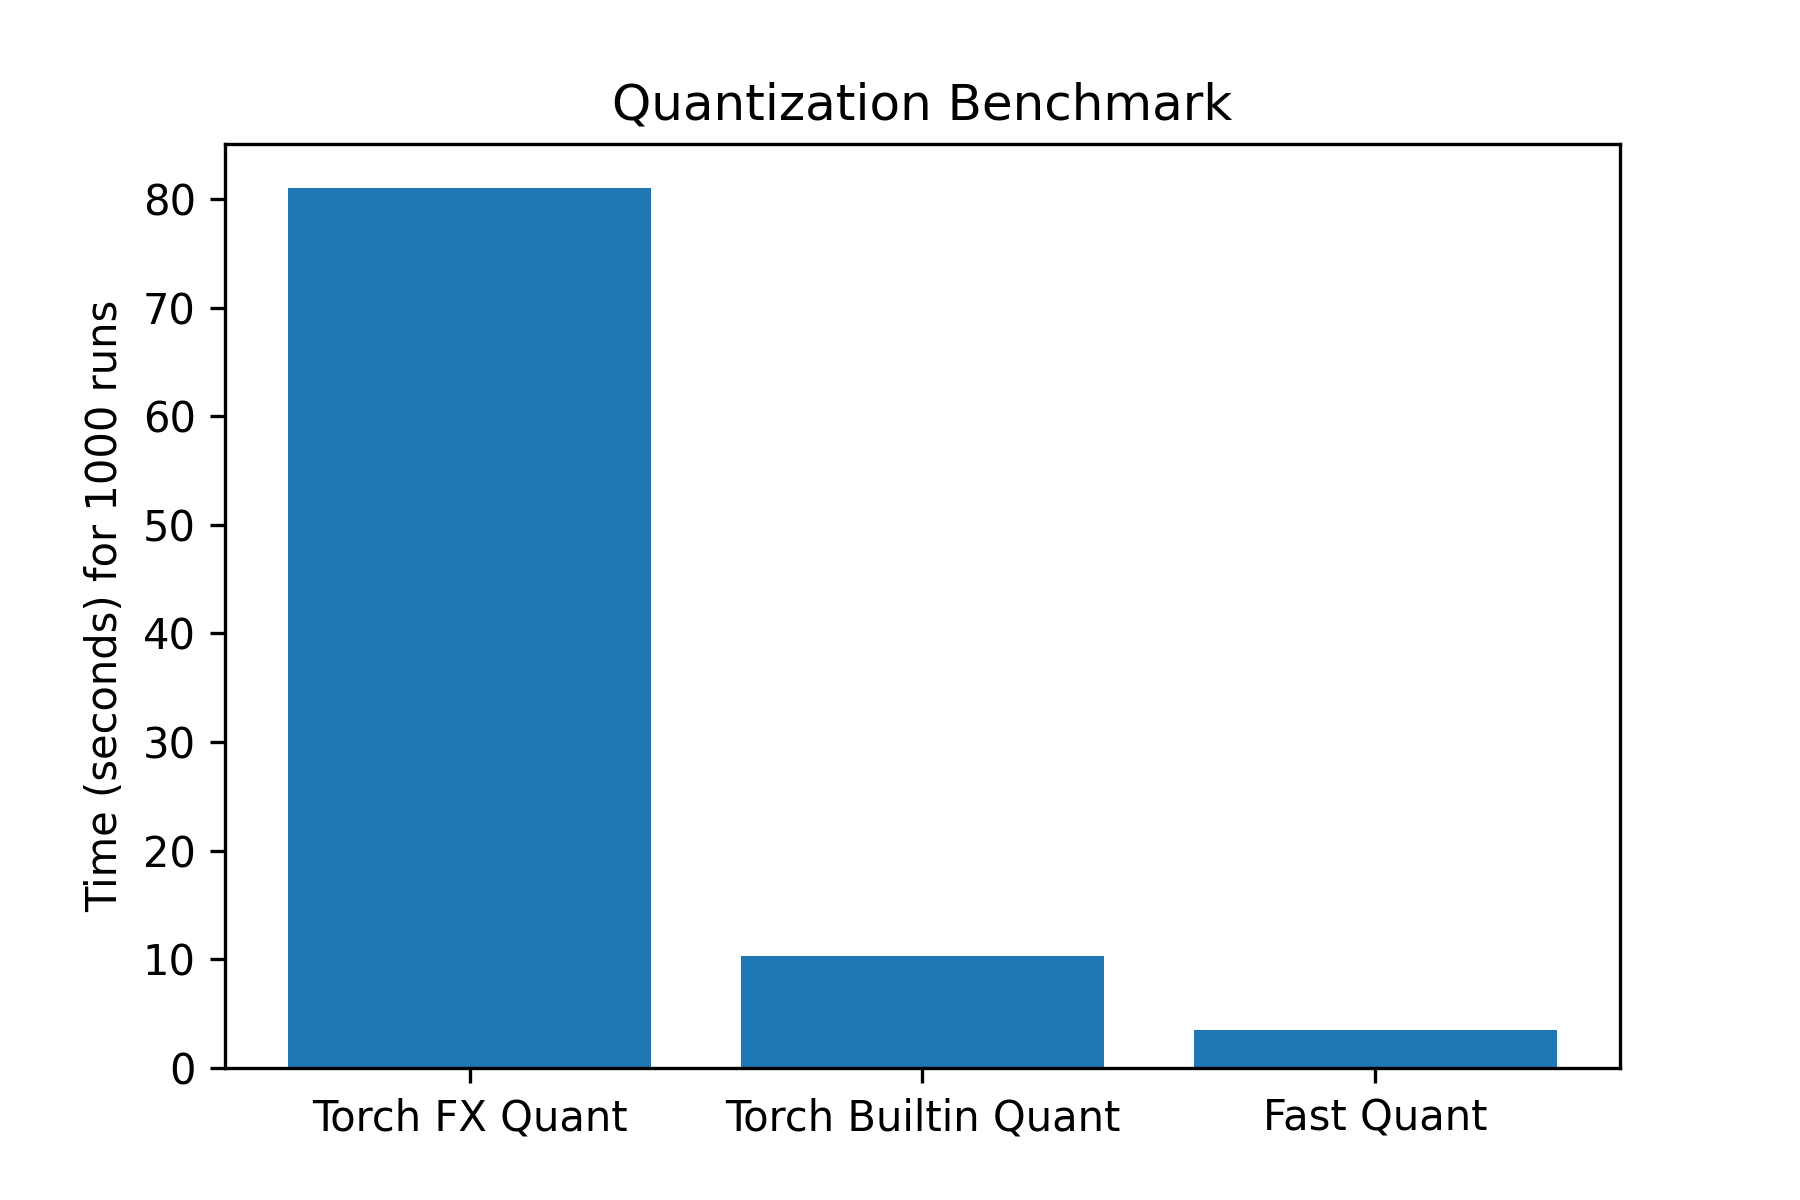
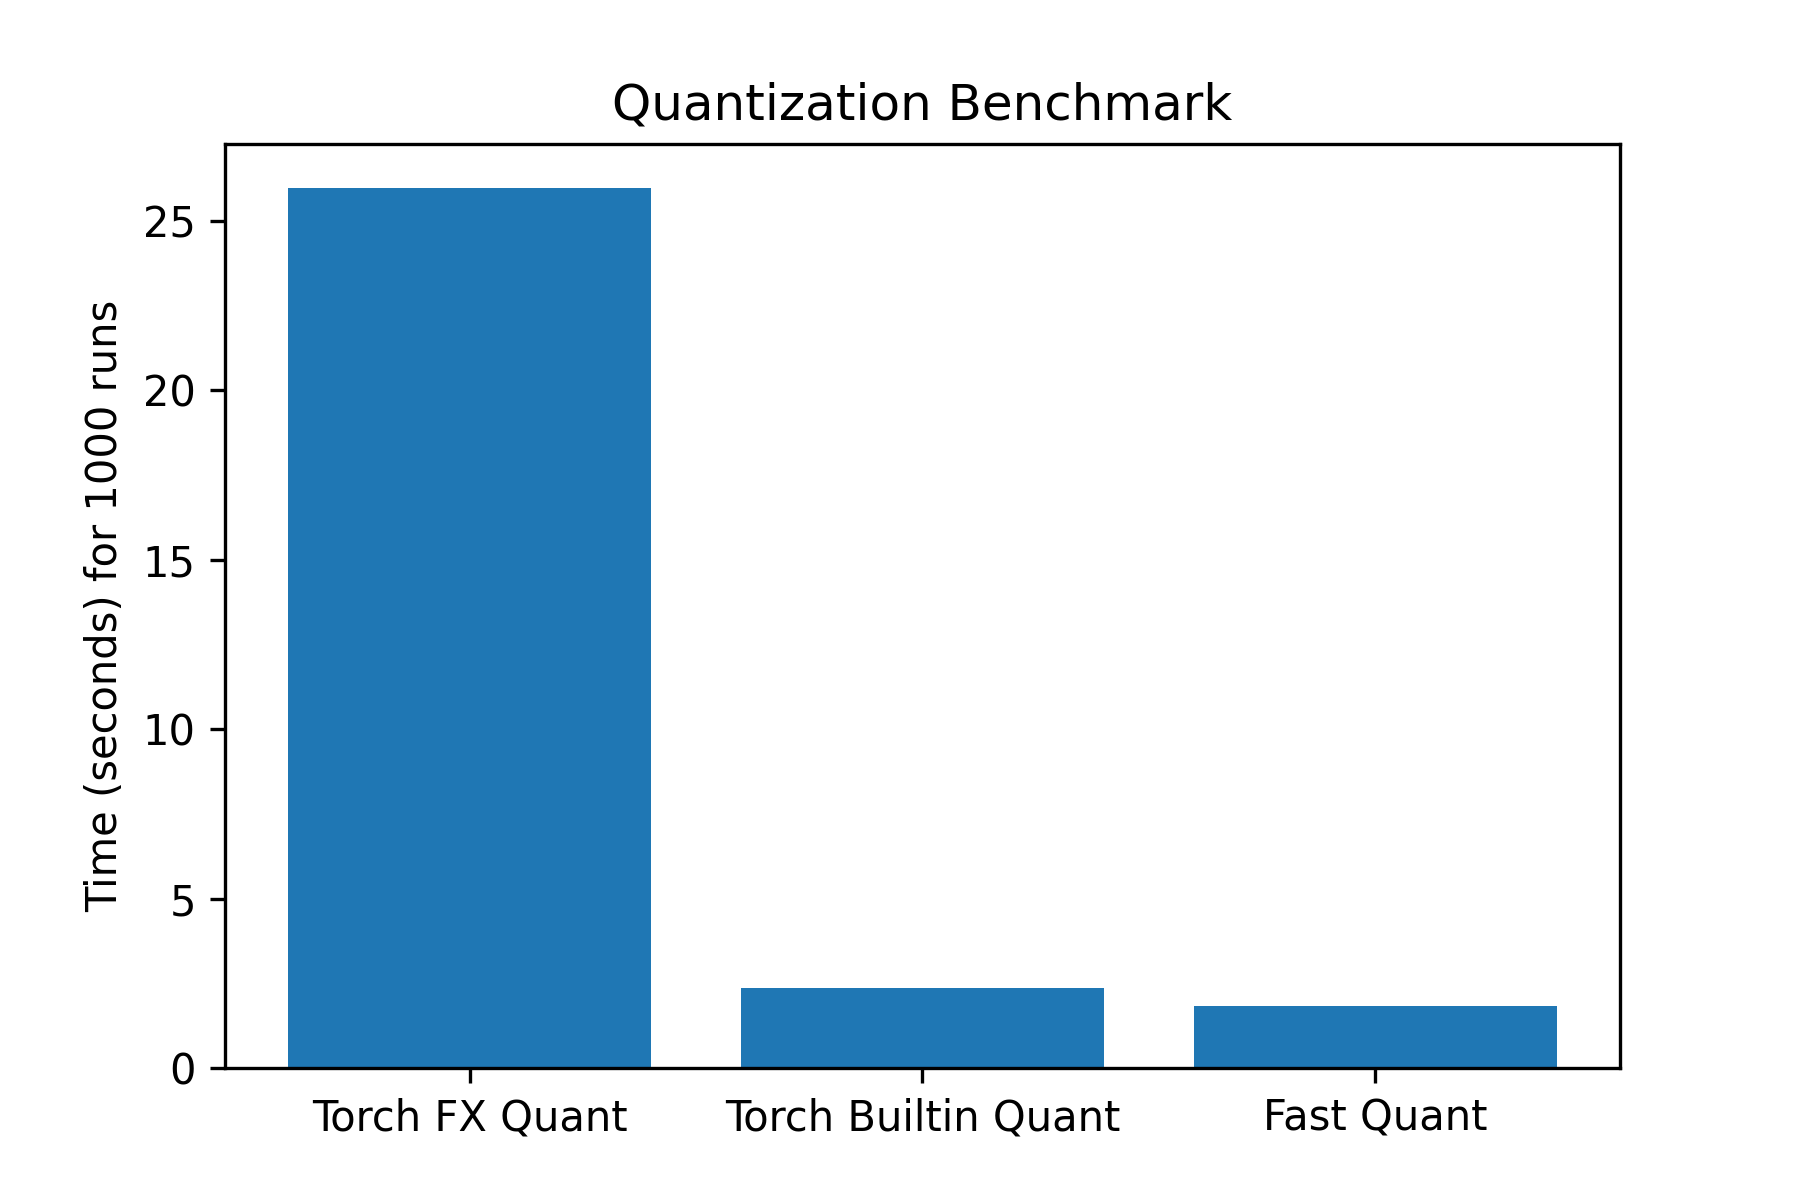
Fix bit width calculations

diff --git a/src/piquant.cpp b/src/piquant.cpp
@@ -241,13 +241,13 @@ namespace piquant {
         if (dto.bit_size < 8) { // Packed (sub 1 byte) types require a splitted numel of all pairs
             piquant_assert(out.size()/(dto.stride) == (in.size()/(dti.stride)+1)>>1, "output span requires (in.size() + 1) / 2 elements, as it is a packed datatype with sub-byte granularity, numel in: %zu, numel out: %zu", in.size(), out.size());
         } else {
-            piquant_assert(in.size()/(dti.bit_size>>3) == out.size()/(dto.bit_size>>3), "input and output spans must have the same length, but %zu != %zu", in.size()/(dti.bit_size>>3), out.size()/(dto.bit_size>>3));
+            piquant_assert(in.size()/dti.stride == out.size()/dto.stride, "input and output spans must have the same length, but %zu != %zu", in.size()/(dti.bit_size>>3), out.size()/(dto.bit_size>>3));
         }
         quant_descriptor info {
             .type = command_type::quant,
             .in = in.data(),
             .out = out.data(),
-            .numel = static_cast<std::int64_t>(in.size()/(dti.bit_size>>3)),
+            .numel = static_cast<std::int64_t>(in.size()/dti.stride),
             .scale = scale,
             .zero_point = zero_point,
             .dt_in = dtype_in,
@@ -307,7 +307,7 @@ namespace piquant {
             .type = command_type::quant_dequant,
             .in = in.data(),
             .out = out.data(),
-            .numel = static_cast<std::int64_t>(in.size()/(dti.bit_size>>3)),
+            .numel = static_cast<std::int64_t>(in.size()/dti.stride),
             .scale = scale,
             .zero_point = zero_point,
             .dt_in = dtype_in_out,

diff --git a/python/benchmark/benchmark.py b/python/benchmark/benchmark.py
@@ -4,6 +4,8 @@ import timeit
 from piquant import QuantDtype
 
 os.environ['CUDA_VISIBLE_DEVICES'] = ''  # Force CPU usage
+os.environ['OMP_NUM_THREADS'] = str(64)
+os.environ['MKL_NUM_THREADS'] = str(64)
 
 import torch
 from torch.ao.quantization.fx._decomposed import quantize_per_tensor
